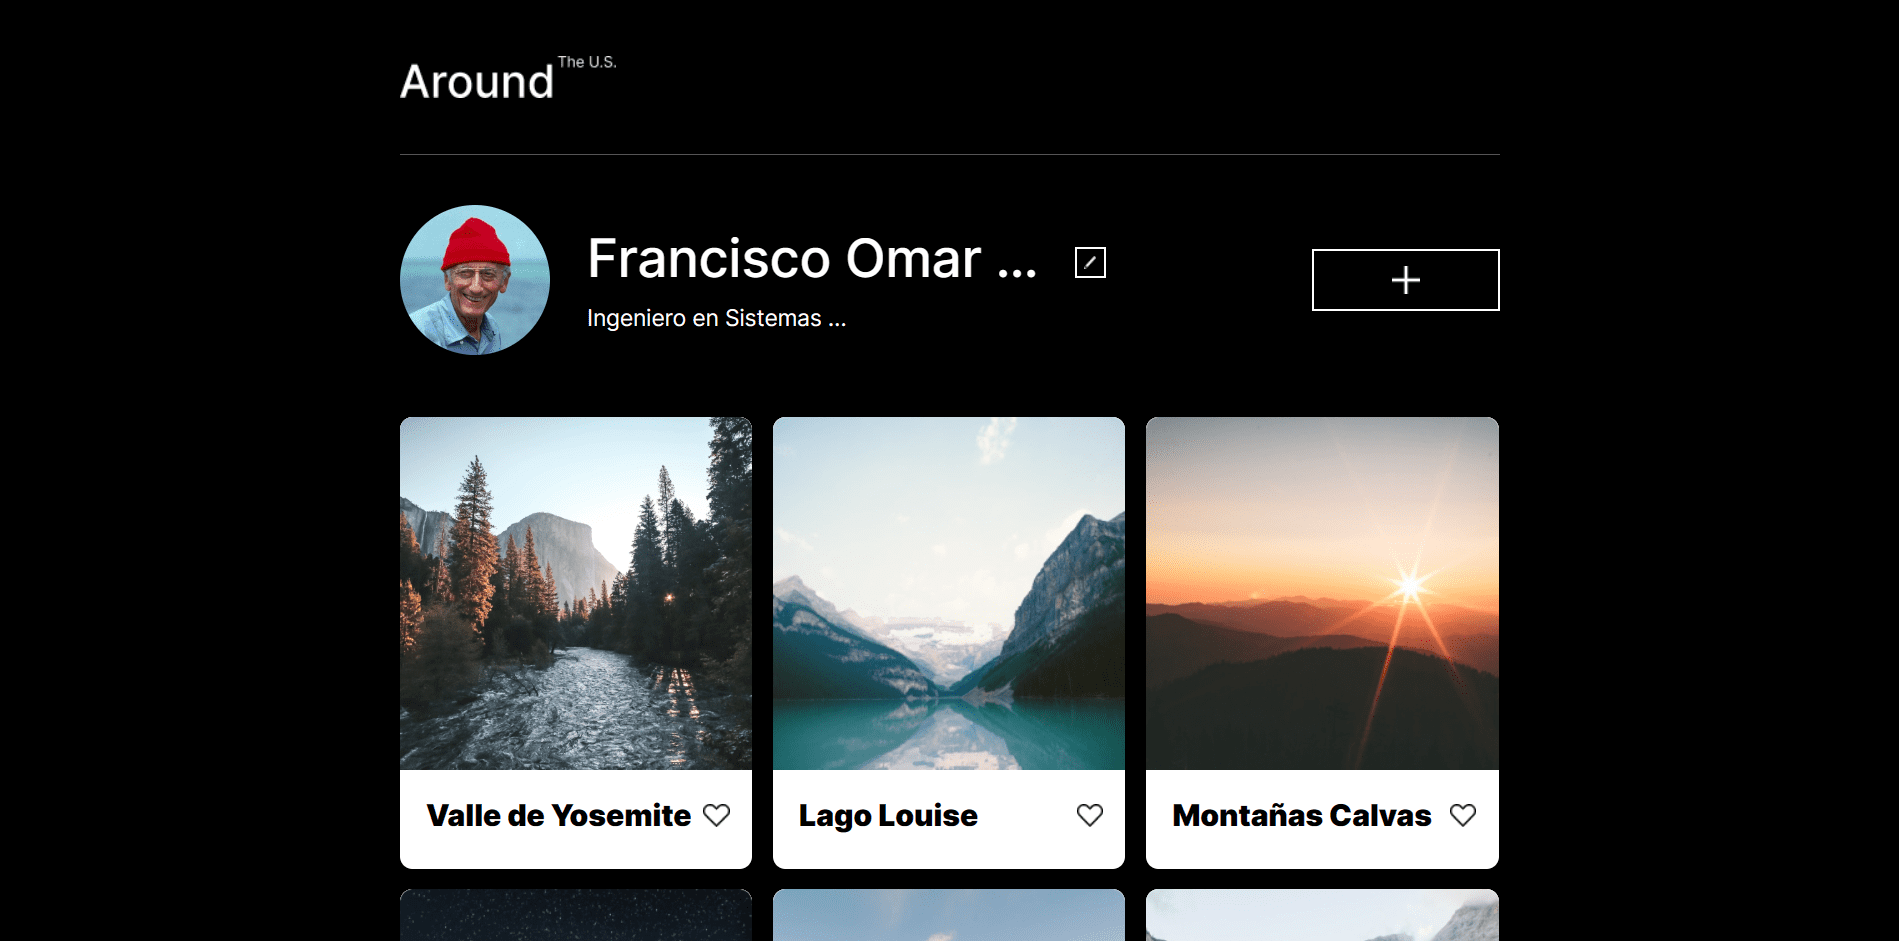
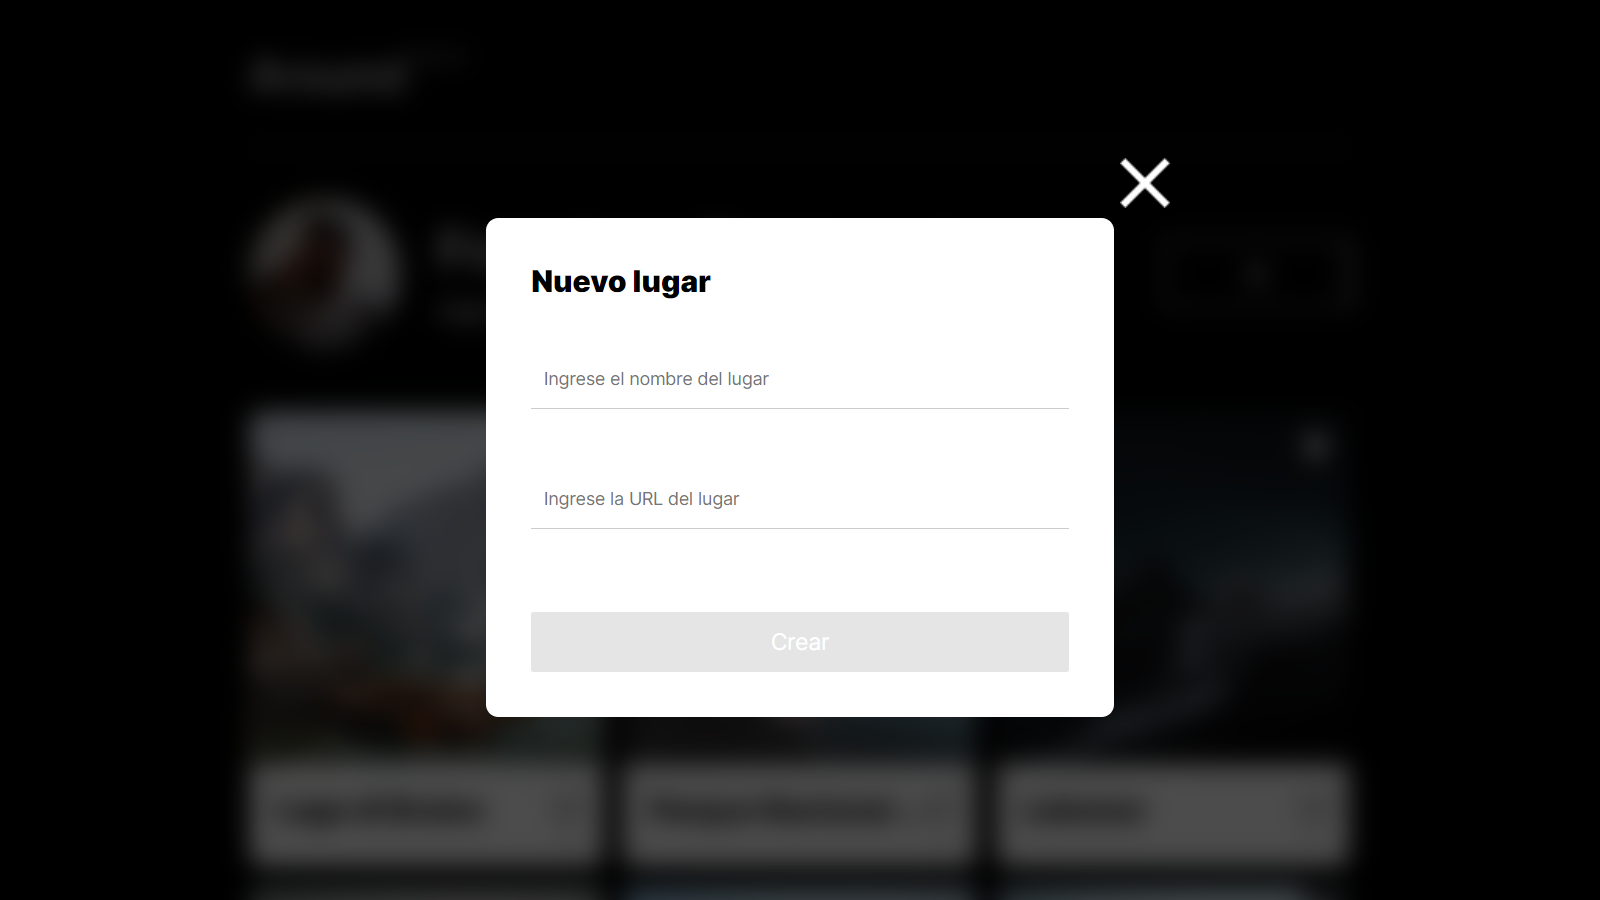
Correcciones del proyecto 9 continuación Sprint 8 parte 10

diff --git a/README.md b/README.md
@@ -10,17 +10,11 @@
 
 ## Introducción
 
-Este proyecto es el resultado de lo aprendido de los sprints: 1, 2 y 3 del bootcamp **Practicum** que estoy cursando actualmente, en donde aplique los aprendidos y mejorados ya adquiridos, como flex-box, Grid Layout, metodología bem, transiciones, animaciones, buena maquitación, etc además de los nuevos conocimientos del sprint 4 introducción a JavaScript como lo son:
+Este proyecto es el resultado de lo aprendido de los sprints: 4-10 del bootcamp **TripleTen** que estoy cursando actualmente, en donde aplique los aprendidos y mejorados, como flex-box, Grid Layout, metodología bem, transiciones, animaciones, buena maquitación, etc. Además de programación orientada a objetos (POO) haciendo uso de clases para los Popups, formularios y las cards, además realice solicitudes GET, PUSH, PUT y DELETE a una API, todo con JavaScript, finalmente hice uso de webpack para hacer que mi web sea compatible con todos los navegadores y pueda llegar a más usuarios.
 
-- Declaración de variables.
-- Declaración y llamado de Funciones.
-- La manipulación de elementos del árbol DOM: nodos, elementos, atributos, etc.
-- Trabajar con clases para los elementos del DOM: className, classList, id, etc.
-- Eventos en especifico addEventListener("click", funtion-name).
+## Vistas previas del diseño responsivo del proyecto
 
-## Vistas previas del diseño responsivo proyecto
-
-### Vistas diseño pc min-width 1024px
+### Vistas diseño para PC min-width 1024px
 
 ![preview de web pc](./src/images/captura-pagina-pc-laptop.png)
 
@@ -34,26 +28,20 @@ Este proyecto es el resultado de lo aprendido de los sprints: 1, 2 y 3 del bootc
 
 ## Vistas JavaScrip aplicado
 
-### Vista pc
-
+![preview de web pc javascript](./src/images/captura-pantalla-modal.png)
 ![preview de web pc javascript](./src/images/captura-pantalla-modal-1.png)
 ![preview de web pc javascript](./src/images/captura-pantalla-modal-2.png)
-
-### Vista tablets
-
-![preview de web tablet javascript](./src/images/captura-pantalla-modal-3.png)
-
-### Vistas dispositivos móviles
-
-![preview de web móvil javascript](./src/images/captura-pantalla-modal-4.png)
+![preview de web pc javascript](./src/images/captura-pantalla-modal-3.png)
 
 ## Nota
 
 Toda la página web fue diseñado, en base al documentos proporcionado por el bootcamp, para la realicación del proyecto.
 
-- [Enlace al proyecto en Figma utilizado.](https://www.figma.com/file/zXzLVGc4KNVm3FMTsAnQnH/WEB%2C-Sprint-4%3A-Alrededor-de-los-EEUU-%7C-desktop-%2B-mobile?node-id=0-1&t=4NePpZYhpOSuxWfA-0)
+- [Enlace al proyecto en Figma utilizado para diseño de la web parte 1.](https://www.figma.com/file/zXzLVGc4KNVm3FMTsAnQnH/WEB%2C-Sprint-4%3A-Alrededor-de-los-EEUU-%7C-desktop-%2B-mobile?node-id=0-1&t=4NePpZYhpOSuxWfA-0)
 
-Para ver el resultado del proyecto publicado en github pages, da click al siguiente enlace.
+- [Enlace al proyecto en Figma utilizado para diseño de la web parte 2.](https://www.figma.com/file/EGCbebw7k4kMOWt2qQcpEu/Web_Brief_Sprint_10_ES-%7C-JavaScript-aplicado?type=design&node-id=1-352&mode=design)
+
+Para ver el resultado del proyecto final, da click al siguiente enlace.
 
 - [Enlace al citio web.](https://frank345-sys.github.io/web_project_4_esp/)
 
